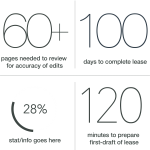
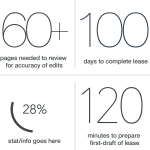
Update before/after images

diff --git a/themes/leasepilot/src/assets/scss/templates/_archive.scss b/themes/leasepilot/src/assets/scss/templates/_archive.scss
@@ -446,6 +446,10 @@ img.archive-page-cover {
         width: #{100% - $before-width};
         overflow: hidden;
         z-index: 2;
+        img {
+          position: absolute;
+          left: -3px;
+        }
         // &__inner {
         //   position: absolute;
         //   width: 440px;
